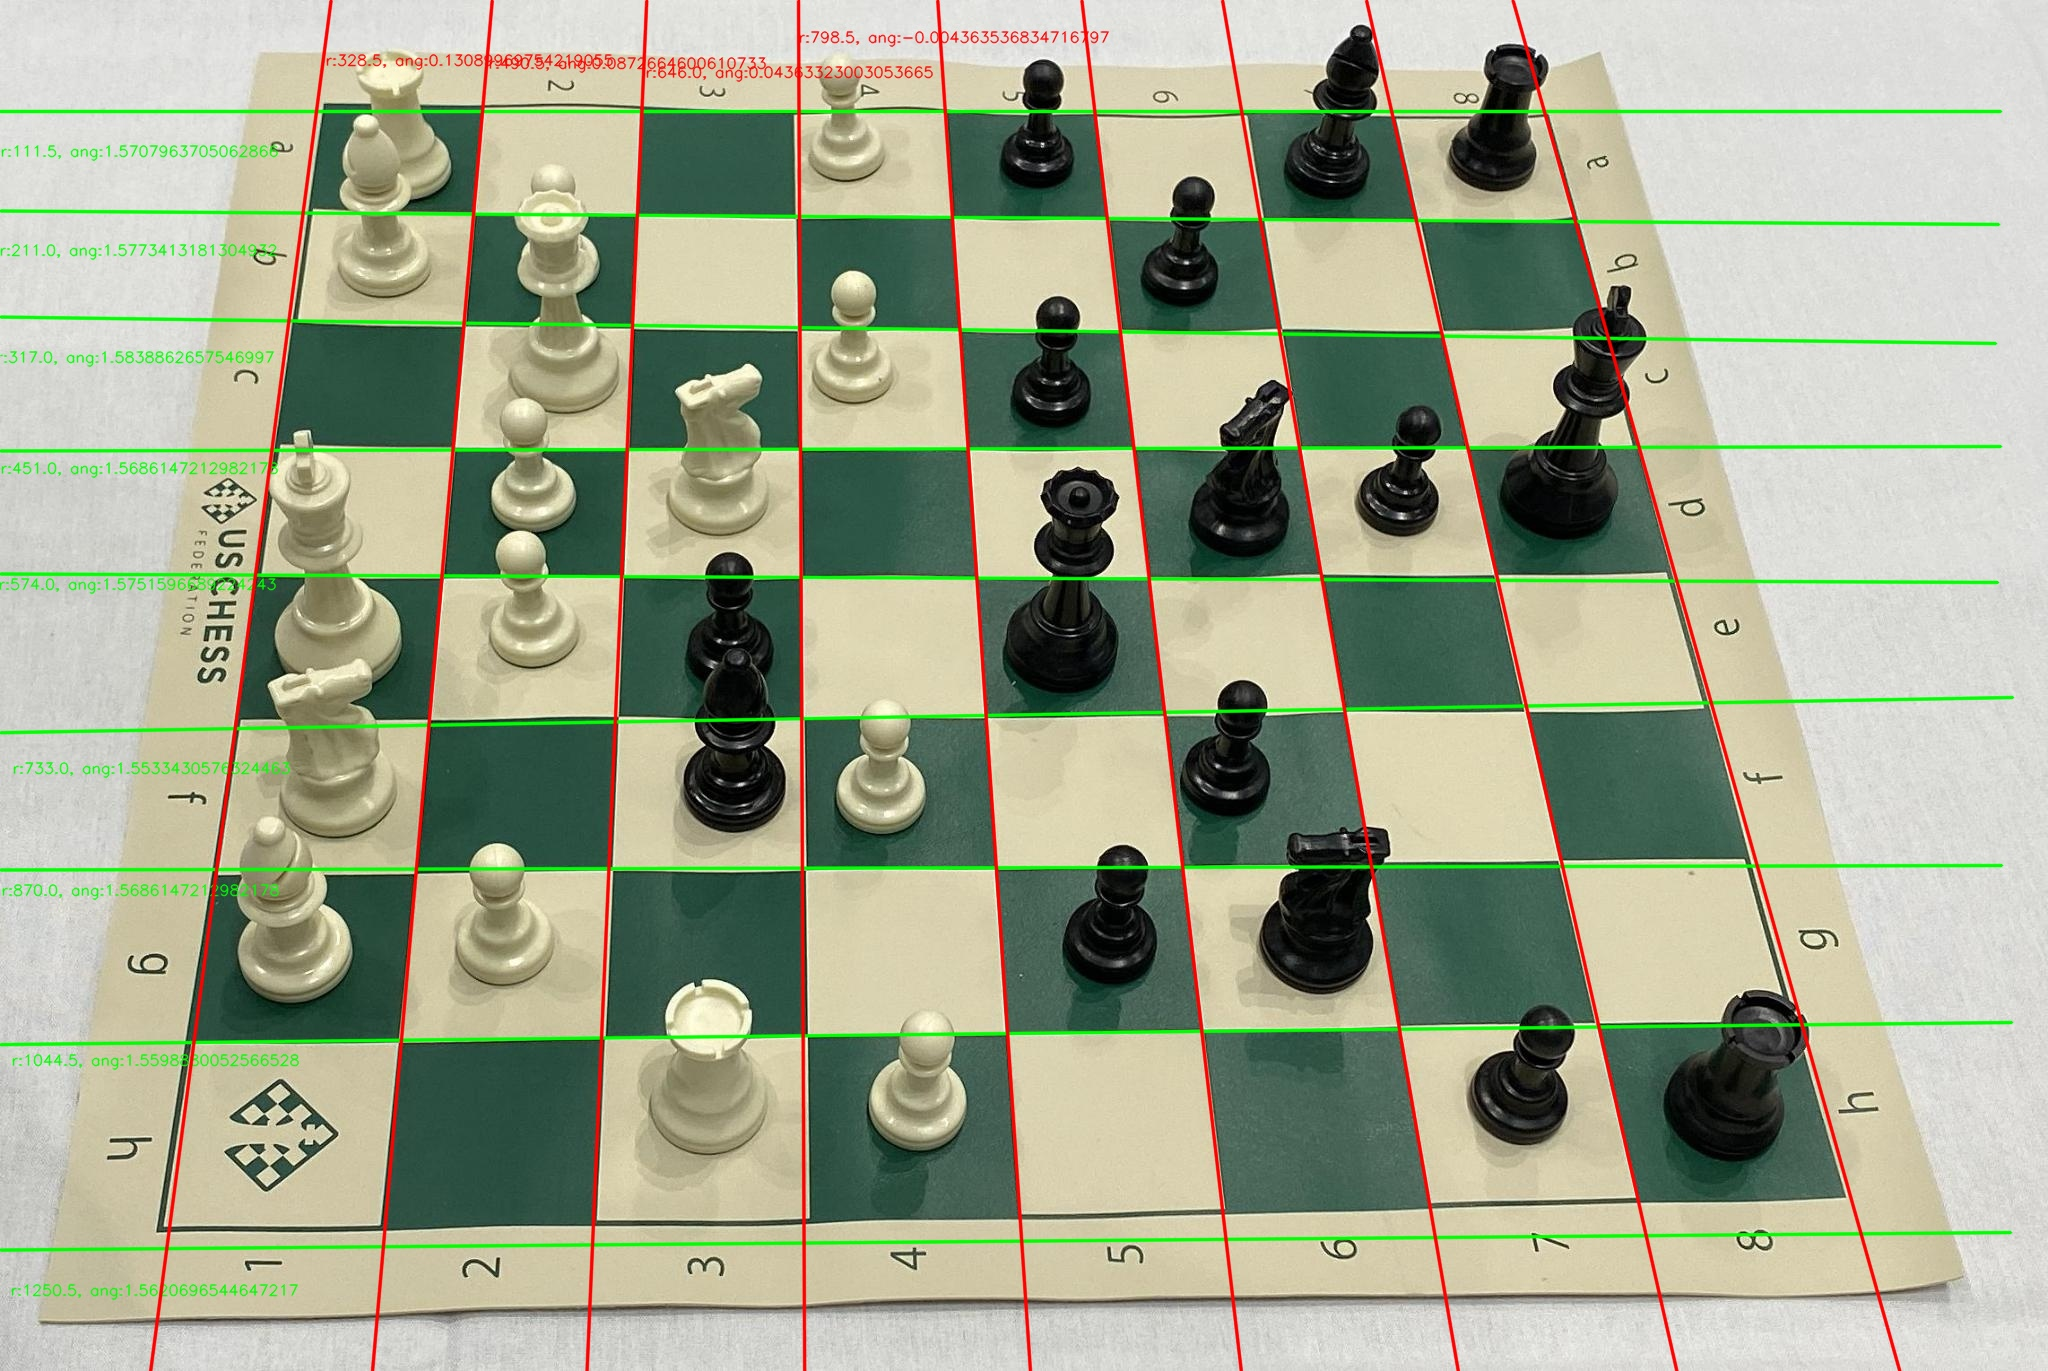
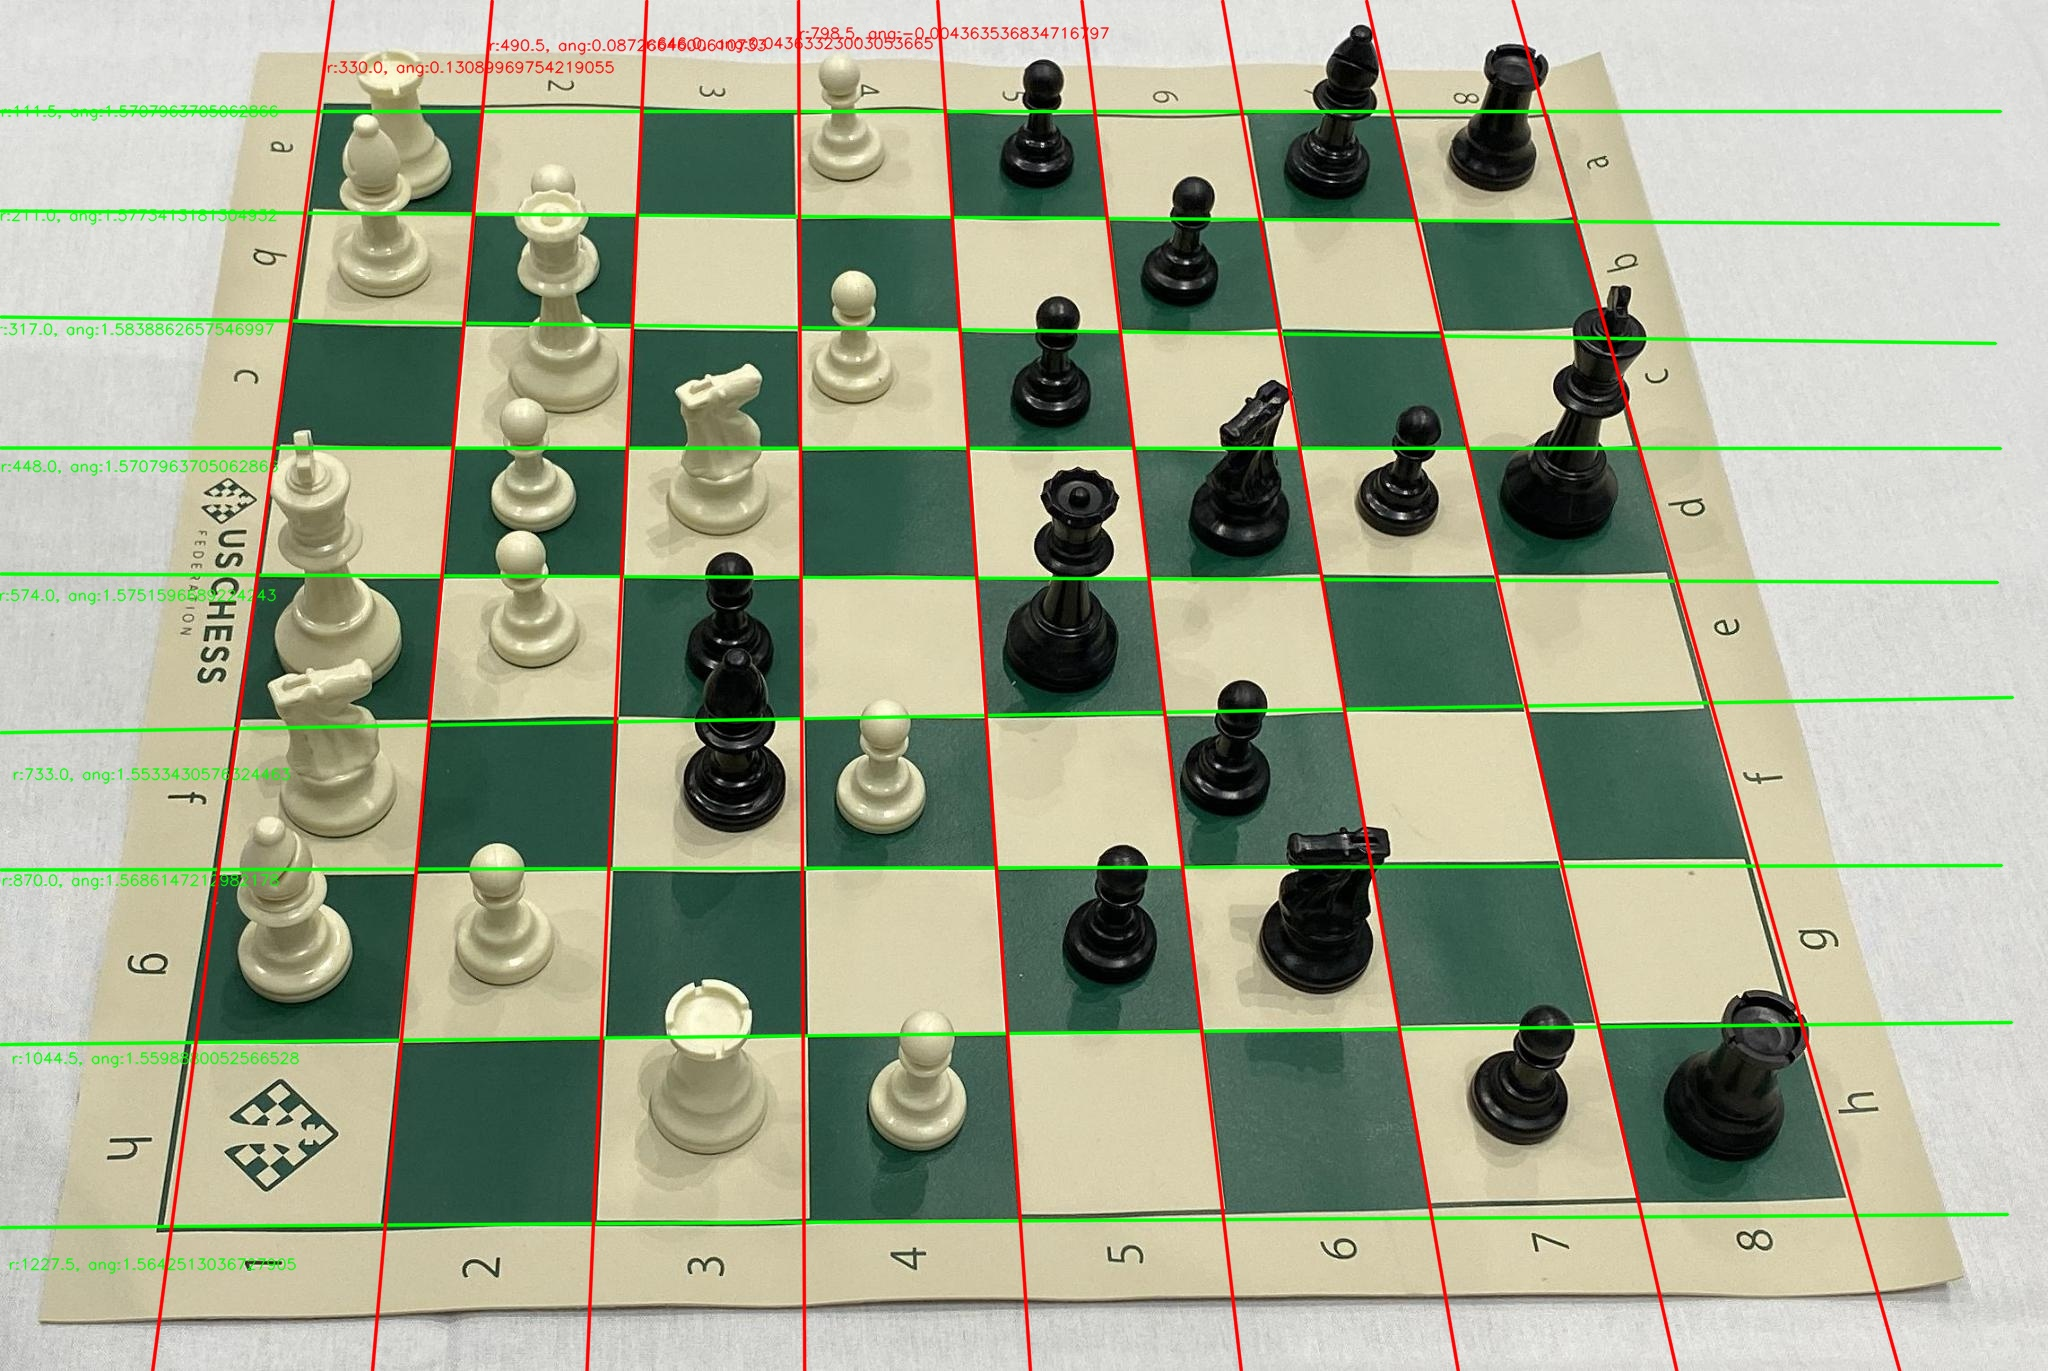
Tweaked DBSCAN parameters for better lines and removed prints

Changed region(s): [[0.0, 0.0613, 0.9688, 1.0], [0.1562, 0.0, 0.5312, 0.0613], [0.75, 0.3063, 0.9688, 0.337]]

diff --git a/board_recognition/board_recognition.py b/board_recognition/board_recognition.py
@@ -60,7 +60,7 @@ def process_board(orig_img):
     # horiz_lines = find_best_lines_cluster(horiz_lines, eps=0.01, theta_threshold=0.3, rho_threshold=400.0)
     # vert_lines = find_best_lines_cluster(vert_lines, eps=0.08, theta_threshold= 0.3, rho_threshold=500.0)  
 
-    horiz_lines = find_best_lines_sorted(horiz_lines, theta_threshold=0.1)
+    horiz_lines = find_best_lines_sorted(horiz_lines, theta_threshold=Params.sorted_theta_threshold)
     vert_lines = find_best_lines_sorted(vert_lines, theta_threshold=0.1)
 
     # for i, horiz_line in enumerate(horiz_lines):
@@ -134,7 +134,7 @@ def simplify_line_clusters(lines, perp_lines):
 
     horiz_intersections = get_intersection_points(lines_rhos, lines_thetas, perp_line_rho, perp_line_theta)
 
-    cluster = DBSCAN(eps=Params.line_clusters_eps, min_samples=1).fit(horiz_intersections)
+    cluster = DBSCAN(eps=Params.line_clusters_eps, min_samples=Params.line_clusters_min_samples).fit(horiz_intersections)
     labels = cluster.labels_
 
     final_lines = []
@@ -227,7 +227,7 @@ def fit_linear_model_and_find_grid_lines(lines, max_lines):
     
     # Return the filtered lines up to max_lines
     remaining_lines = sorted_lines[mask]
-    return remaining_lines[:max_lines]
+    return remaining_lines
 
 def print_points(img, points, color):
     for x,y in points:
@@ -236,7 +236,6 @@ def print_points(img, points, color):
 
 def print_lines(img, lines, color):
     if lines is not None:
-        print("printing lines: ", lines)
         for i in range(0, len(lines)):
             rho = lines[i][0]
             theta = lines[i][1]

diff --git a/board_recognition/parameters.py b/board_recognition/parameters.py
@@ -17,8 +17,8 @@ hough_min_points_line = 90 # min number of votes for valid line (min de pontos a
 kmeans_cluster_n = 2
 
 #DBSCAN separate line clusters
-line_clusters_eps = 12
-
+line_clusters_eps = 9 # Distância máxima para duas samples diferentes estarem na mesma vizinhança (aka cluster acho)
+line_clusters_min_samples = 1 # mínimo de samples para ponto não ser considerado outlier
 #find_best_lines 
 #Cluster
 cluster_horiz_eps = 0.01
@@ -27,8 +27,10 @@ cluster_horiz_rho = 400.0
 cluster_vert_eps = 0.08
 cluster_vert_theta = 0.3
 cluster_vert_rho = 500.0
+
 #Sorted
-sorted_horiz_theta = 0.1
+sorted_theta_threshold = 0.1 # margem de variação de ângulo de reta entre linhas consecutivas de grelha
+
 #draw objects
 color_red = (0,0,255)
 color_green = (0,255,0)

diff --git a/main.py b/main.py
@@ -33,8 +33,11 @@ def main():
     if len(sys.argv) != 3:
         raise Exception("main.py <input_photo_path> <output_folder_path>")
     orig_img = get_img()
+    start_time = time.time()
     result_img = process_board(orig_img)
+    print("Execution time: %s s" % (time.time() - start_time)) # print do tempo decorrido
     show_result(orig_img,result_img, writeToFile=True)
 
 if __name__ == "__main__":
     main()
+    

diff --git a/board_recognition/includes.py b/board_recognition/includes.py
@@ -15,3 +15,4 @@ from scipy.stats import iqr
 import random
 import heapq
 from sklearn.linear_model import RANSACRegressor
+import time
